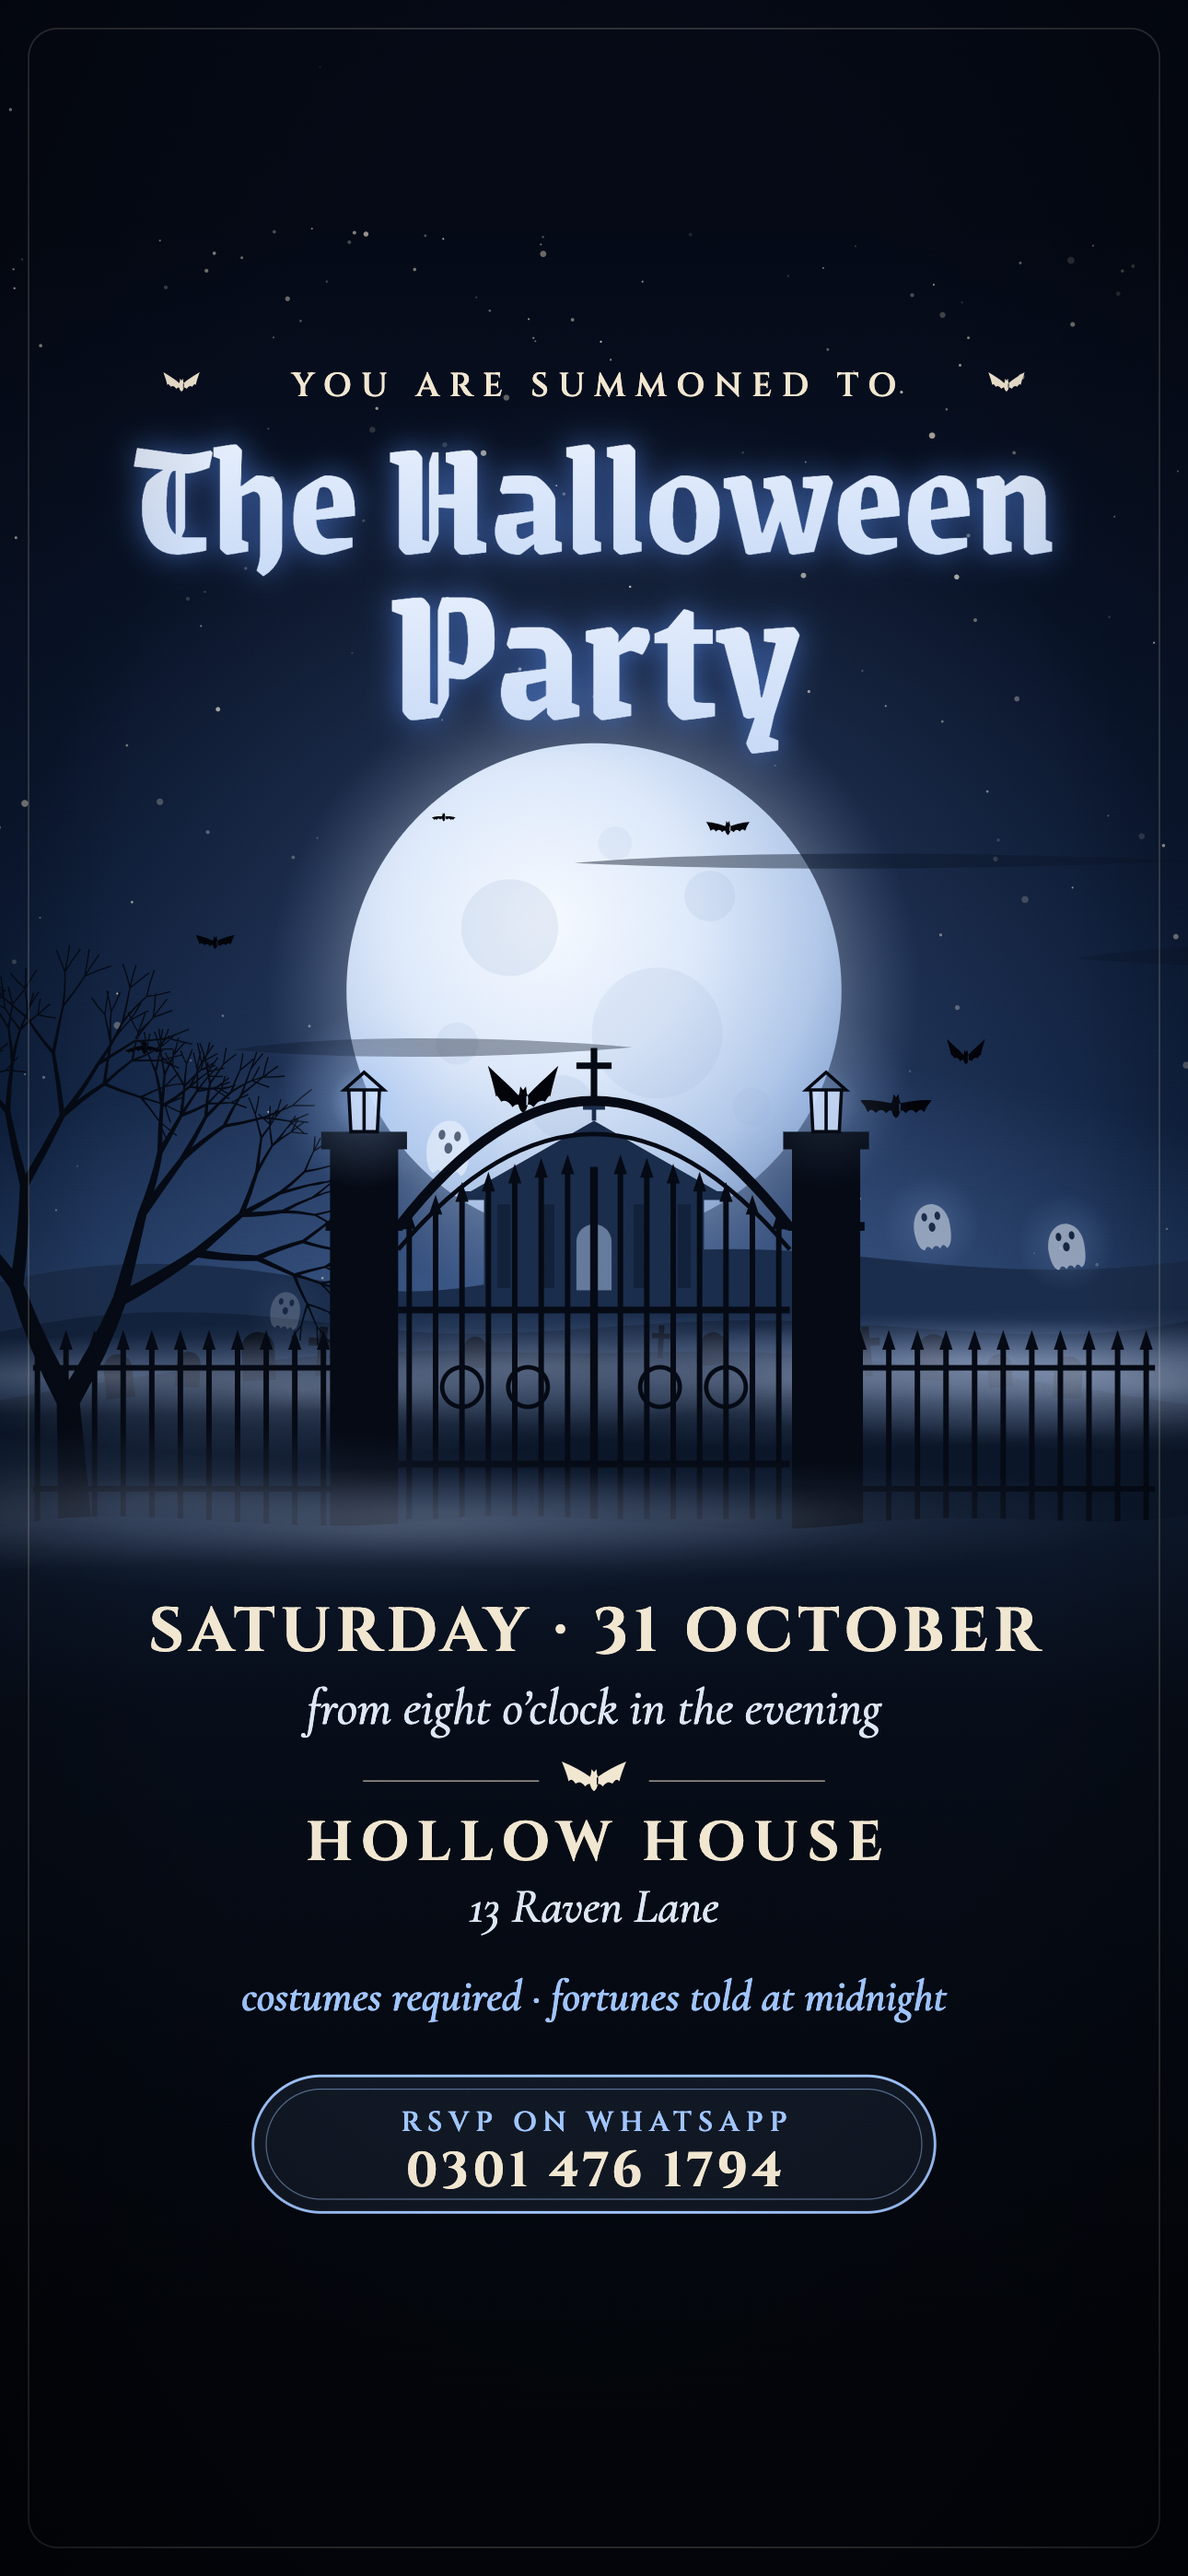
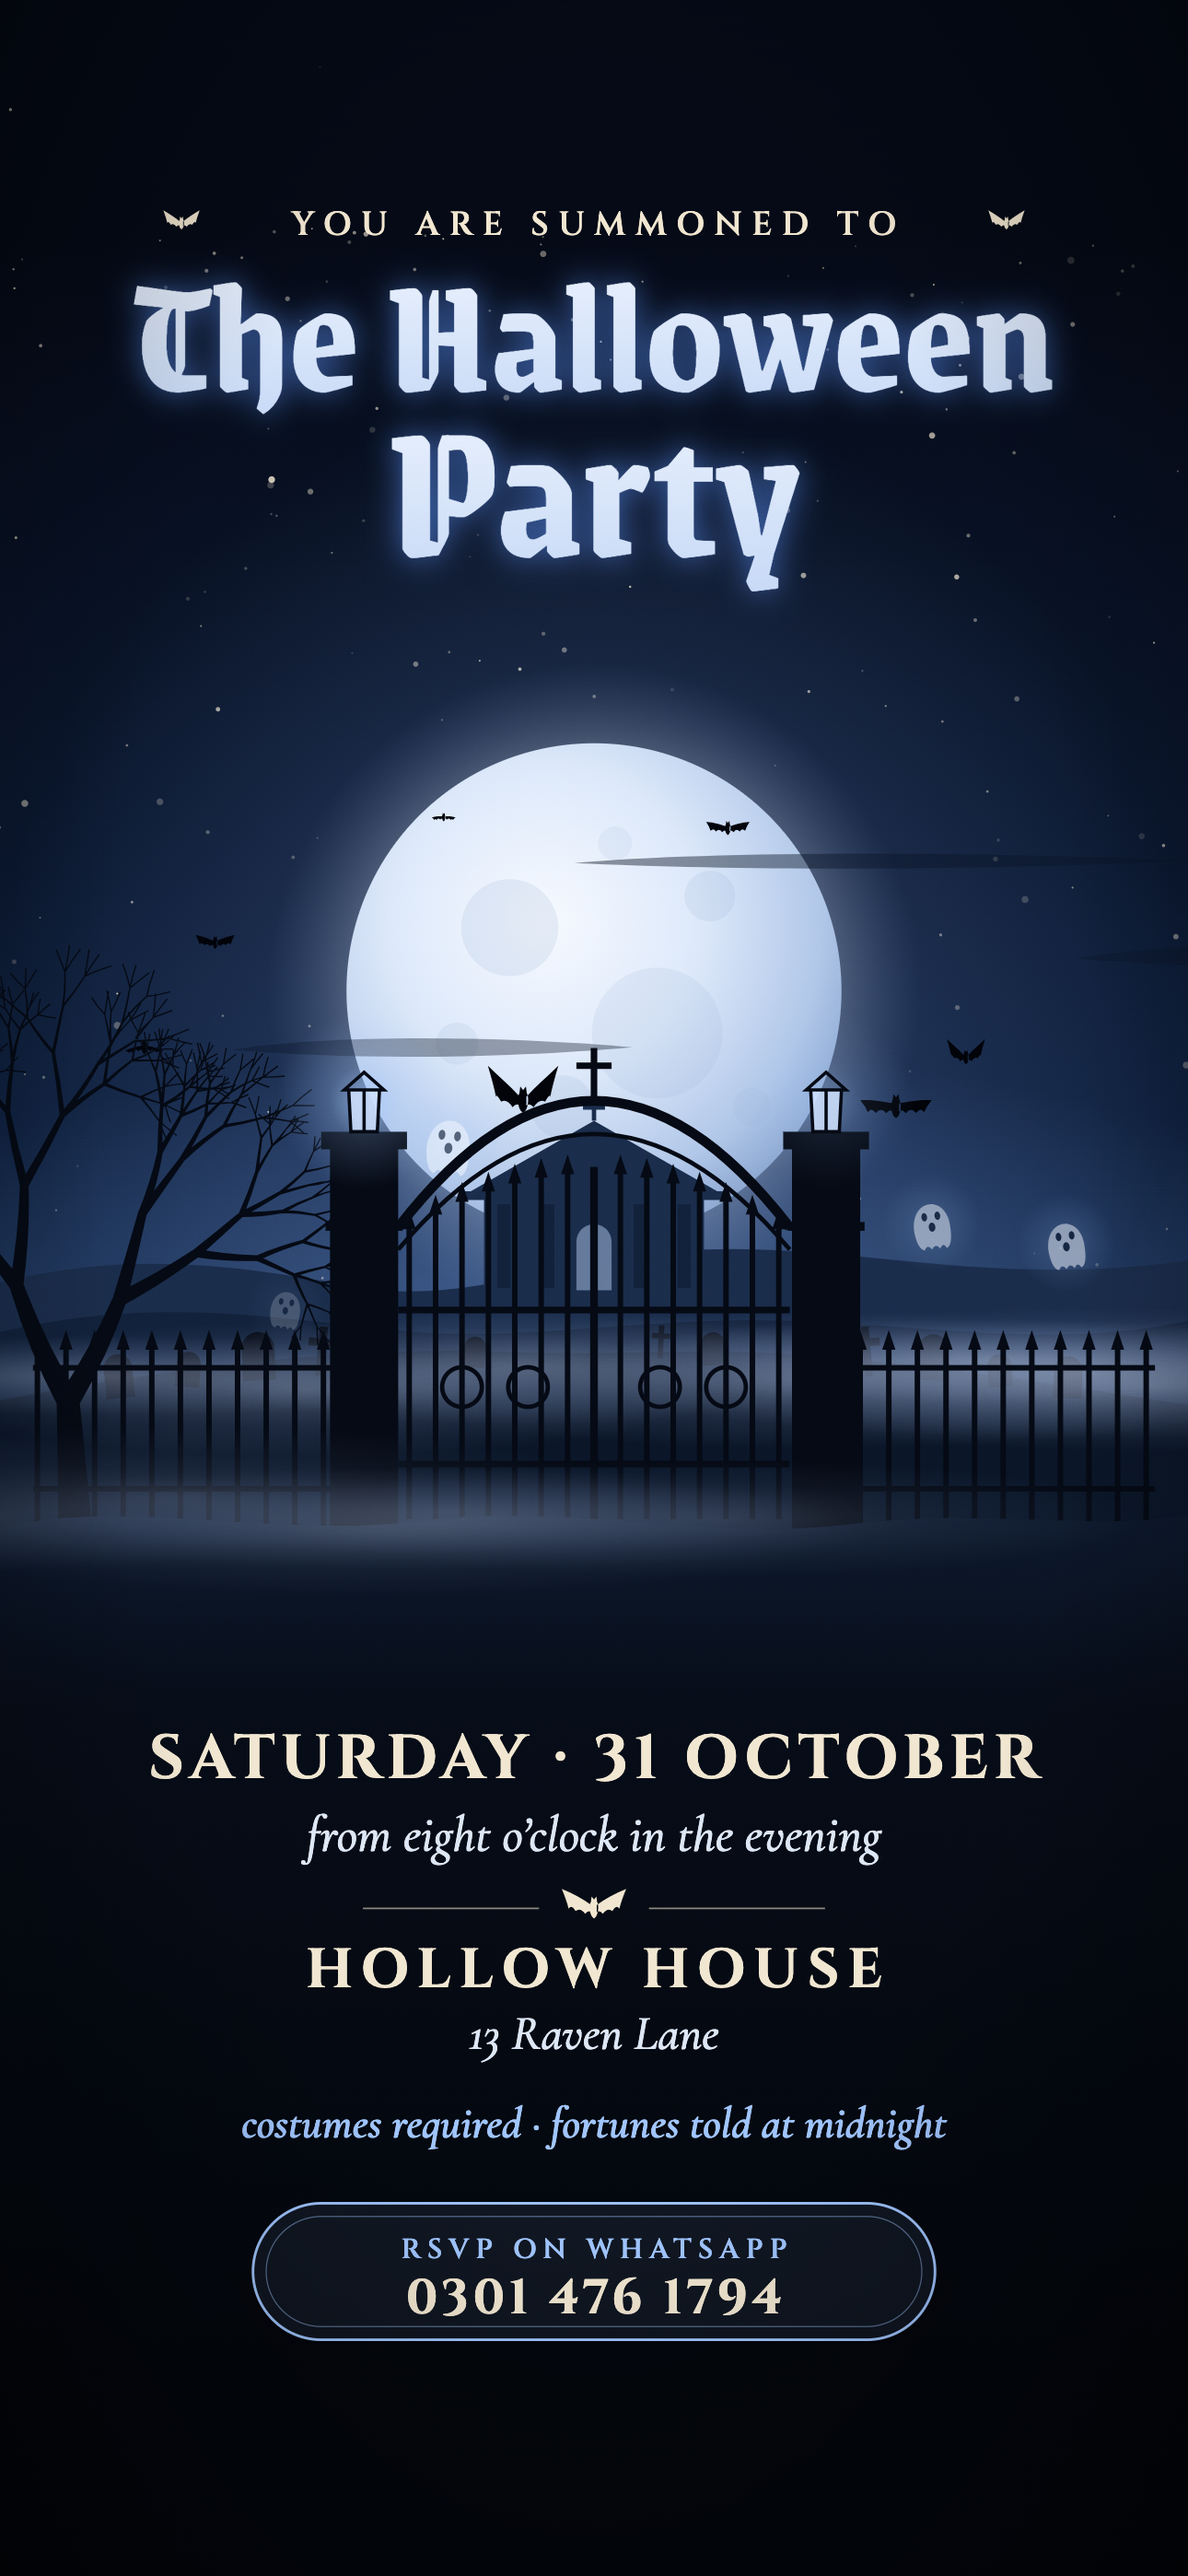
Shared card links: no RSVP on the card, layout spreads to fill the whole screen, no card frame; tall PNGs re-rendered

Changed region(s): [[0.124, 0.6223, 0.8682, 0.9024], [0.093, 0.0622, 0.8992, 0.3112]]

diff --git a/art.js b/art.js
@@ -130,7 +130,7 @@
   function create(svg, opts = {}) {
     const T = THEMES[opts.theme] || THEMES.manor;
     const theme = THEMES[opts.theme] ? opts.theme : 'manor';
-    const OPT = { text: opts.text !== false, grain: !!opts.grain, lite: !!opts.lite };
+    const OPT = { text: opts.text !== false, grain: !!opts.grain, lite: !!opts.lite, rsvp: opts.rsvp !== false };
     const P = Object.assign({}, DEFAULT_PARTY, opts.party || {});
     const MOON = T.moon;
     svg.setAttribute('viewBox', `0 0 ${W} ${H}`);
@@ -1077,22 +1077,24 @@
     function reveal(node, at, dur = 0.7, rise = 22) { entries.push({ node, at, dur, rise }); }
     const CINZEL = "'Cinzel', serif", CORM = "'Cormorant Garamond', serif", GOTH = "'Grenze Gotisch', serif";
 
-    const pill = el('g');
+    const topText = el('g'), bottomText = el('g');
+    const pill = el('g', {}, bottomText);
+    if (!OPT.rsvp) pill.setAttribute('display', 'none');
     el('rect', { x: 230, y: 1676, width: 620, height: 124, rx: 62, fill: T.accent, 'fill-opacity': 0.08, stroke: T.accent, 'stroke-width': 2.4 }, pill);
     el('rect', { x: 242, y: 1688, width: 596, height: 100, rx: 50, fill: 'none', stroke: T.accent, 'stroke-width': 1, opacity: 0.5 }, pill);
     reveal(pill, 3.0);
-    const divider = el('g', { stroke: CREAM, 'stroke-width': 1.4 });
+    const divider = el('g', { stroke: CREAM, 'stroke-width': 1.4 }, bottomText);
     el('path', { d: 'M330,1408 L490,1408 M590,1408 L750,1408', opacity: 0.55 }, divider);
     el('path', { d: batPath(0.4), fill: CREAM, stroke: 'none', transform: 'translate(540,1408) scale(0.62)' }, divider);
     reveal(divider, 2.65);
 
     if (OPT.text) {
-      const eg = el('g');
+      const eg = el('g', {}, topText);
       line(P.eyebrow, 150, CINZEL, 30, { weight: 600, ls: 9, parent: eg, max: 640 });
       for (const sx of [-1, 1]) el('path', { d: batPath(0.6), fill: CREAM, transform: `translate(${CX + sx * 375},140) scale(0.36)` }, eg);
       reveal(eg, 1.9);
 
-      const tg = el('g');
+      const tg = el('g', {}, topText);
       const glow = el('g', { filter: url('titleGlow'), opacity: 0.75 }, tg);
       line(P.title1, 292, GOTH, 150, { fill: T.titleGlow, weight: 700, parent: glow, max: 920 });
       line(P.title2, 442, GOTH, 176, { fill: T.titleGlow, weight: 700, parent: glow, max: 920 });
@@ -1100,14 +1102,16 @@
       line(P.title2, 442, GOTH, 176, { fill: url('title'), weight: 700, parent: tg, max: 920 });
       reveal(tg, 2.1, 0.9, 30);
 
-      const dg = el('g');
+      const dg = el('g', {}, bottomText);
       reveal(line(P.date, 1290, CINZEL, 56, { weight: 700, ls: 5, parent: dg, max: 860 }), 2.4);
       reveal(line(P.time, 1356, CORM, 46, { italic: true, weight: 500, fill: T.soft, parent: dg, max: 860 }), 2.5);
       reveal(line(P.venue, 1480, CINZEL, 50, { weight: 700, ls: 8, parent: dg, max: 860 }), 2.75);
       reveal(line(P.address, 1536, CORM, 44, { italic: true, weight: 500, fill: T.soft, parent: dg, max: 860 }), 2.85);
       reveal(line(P.note, 1616, CORM, 40, { italic: true, weight: 600, fill: T.accent, parent: dg, max: 880 }), 2.95);
-      reveal(line(P.rsvpLabel, 1726, CINZEL, 25, { weight: 600, ls: 6, fill: T.accent, parent: dg, max: 540 }), 3.1);
-      reveal(line(P.rsvpNumber, 1776, CINZEL, 44, { weight: 700, ls: 4, parent: dg, max: 560 }), 3.15);
+      if (OPT.rsvp) {
+        reveal(line(P.rsvpLabel, 1726, CINZEL, 25, { weight: 600, ls: 6, fill: T.accent, parent: dg, max: 540 }), 3.1);
+        reveal(line(P.rsvpNumber, 1776, CINZEL, 44, { weight: 700, ls: 4, parent: dg, max: 560 }), 3.15);
+      }
     }
 
     /* ---------- finish ---------- */
@@ -1201,7 +1205,7 @@
     let ex = 0, ey = 0, eyT = 0;
     /* Fit to a screen of pw x ph pixels, keeping the card itself clear of overlays that cover
        `top` / `bottom` pixels; the scenery still runs underneath them. */
-    function setFit(pw, ph, top = 0, bottom = 0) {
+    function setFit(pw, ph, top = 0, bottom = 0, frame = false) {
       const ah = Math.max(1, ph - top - bottom);
       const sc = Math.min(pw / W, ah / H);
       const vw = pw / sc, vh = ph / sc;
@@ -1215,8 +1219,14 @@
       for (const r of fullRects) { r.setAttribute('x', f2(x0)); r.setAttribute('y', f2(y0)); r.setAttribute('width', f2(w)); r.setAttribute('height', f2(h)); }
       border.setAttribute('x', f2(26 - ex)); border.setAttribute('y', f2(26 - eyT));
       border.setAttribute('width', f2(w - 52)); border.setAttribute('height', f2(h - 52));
+      // the thin card frame only belongs on the plain 9:16 card, never when filling a screen
+      border.setAttribute('display', frame && !(ex > 1 || eyT > 1 || ey > 1) ? 'inline' : 'none');
+      // on taller screens the title rises into the extra sky and the details settle into the extra ground
+      const lift = Math.max(0, eyT) * 0.7, drop = Math.max(0, ey) * (OPT.rsvp ? 0.55 : 0.75) + (OPT.rsvp ? 0 : 60);
+      topText.setAttribute('transform', lift > 0.5 ? `translate(0,${f2(-lift)})` : '');
+      bottomText.setAttribute('transform', drop > 0.5 ? `translate(0,${f2(drop)})` : '');
     }
-    function setAspect(ratio) { if (ratio > W / H) setFit(H * ratio, H); else setFit(W, W / ratio); }
+    function setAspect(ratio) { if (ratio > W / H) setFit(H * ratio, H, 0, 0, true); else setFit(W, W / ratio, 0, 0, true); }
     svg.setAttribute('preserveAspectRatio', 'xMidYMid slice');
     // where the moon sits on screen, as a fraction of the drawn area (for the page-level bat intro)
     function moonAt() { return { x: (MOON.x + ex) / (W + 2 * ex), y: (MOON.y + eyT) / (H + eyT + ey) }; }

diff --git a/index.html b/index.html
@@ -410,7 +410,7 @@ const cards = HauntCard.THEMES.map((theme, i) => {
 function build(i) {
   const c = cards[i];
   if (c && !c.card) {
-    c.card = HauntCard.create(c.svg, { theme: c.theme, lite: true, party });
+    c.card = HauntCard.create(c.svg, { theme: c.theme, lite: true, party, rsvp: INVITE < 0 }); // shared links leave the RSVP off the card
     c.card.ready.then(() => { if (c.clock === null) c.card.setTime(c.at); });
   }
   return c;
